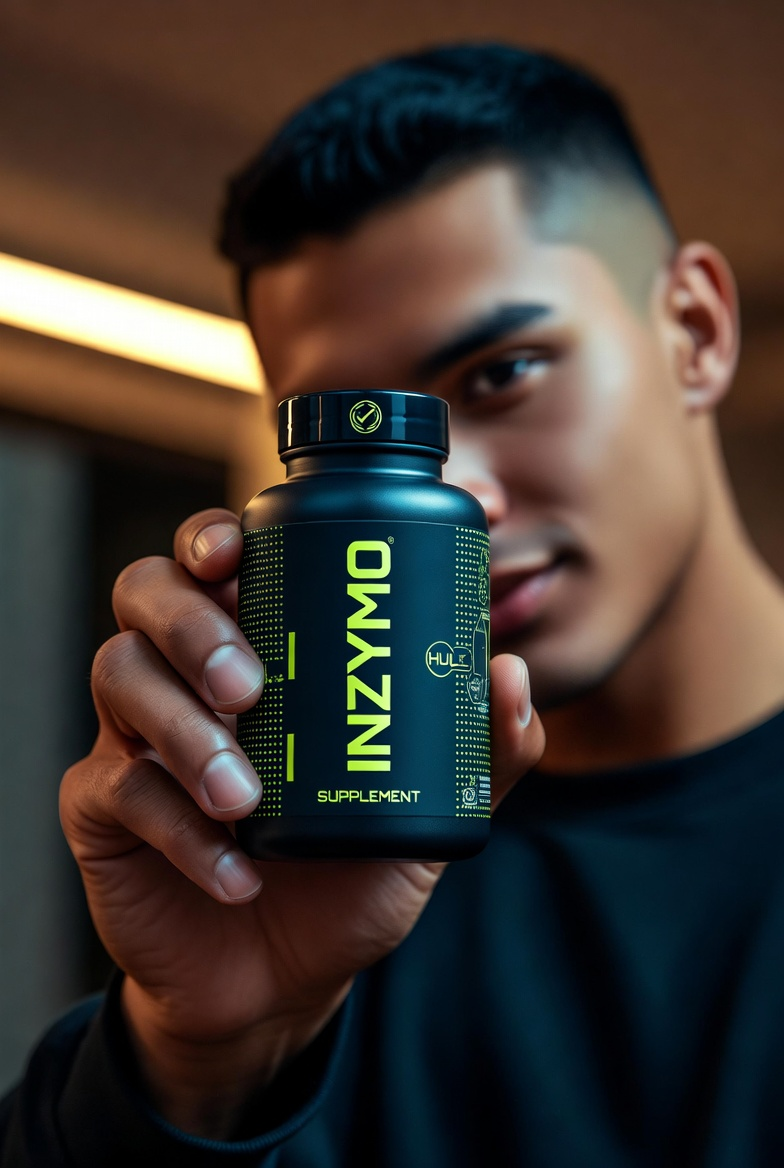
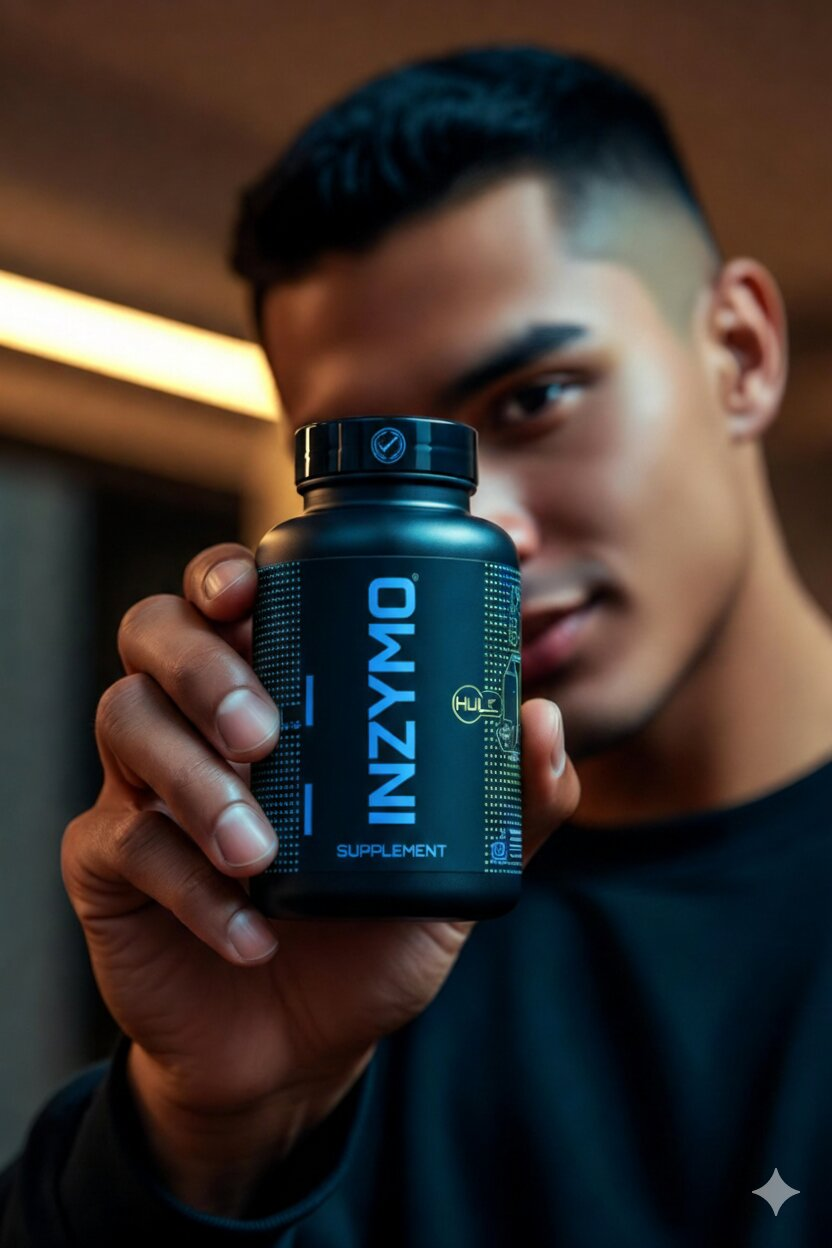
Changed UI and updated Edited Images

diff --git a/src/index.css b/src/index.css
@@ -15,7 +15,7 @@
     --popover: 0 0% 8%;
     --popover-foreground: 0 0% 92%;
 
-    --primary: 90 100% 50%;
+    --primary: 215 100% 50%;
     --primary-foreground: 0 0% 0%;
 
     --secondary: 0 0% 10%;
@@ -24,7 +24,7 @@
     --muted: 0 0% 12%;
     --muted-foreground: 0 0% 60%;
 
-    --accent: 90 100% 50%;
+    --accent: 215 100% 50%;
     --accent-foreground: 0 0% 0%;
 
     --destructive: 0 84.2% 60.2%;
@@ -32,15 +32,15 @@
 
     --border: 0 0% 15%;
     --input: 0 0% 15%;
-    --ring: 90 100% 50%;
+    --ring: 215 100% 50%;
 
     --radius: 0.5rem;
 
     --metal: 0 0% 20%;
     --metal-light: 0 0% 30%;
     --metal-dark: 0 0% 10%;
-    --neon-green: 90 100% 50%;
-    --neon-blue: 195 100% 50%;
+    --neon-green: 215 100% 50%;
+    --neon-blue: 215 100% 50%;
     --charcoal: 0 0% 10%;
     --graphite: 0 0% 20%;
 
@@ -74,7 +74,7 @@
   }
 
   ::selection {
-    background: hsl(0 85% 50% / 0.3);
+    background: hsl(195 100% 50% / 0.3);
     color: hsl(0 0% 100%);
   }
 
@@ -103,8 +103,8 @@
   .text-gradient-neon {
     @apply bg-clip-text text-transparent;
     background-image: linear-gradient(90deg,
-        hsl(0 85% 50%) 0%,
-        hsl(25 90% 55%) 100%);
+        hsl(195 100% 50%) 0%,
+        hsl(210 100% 60%) 100%);
   }
 
   .bg-metal-gradient {
@@ -128,18 +128,18 @@
   }
 
   .shadow-neon-blue {
-    box-shadow: 0 0 20px hsl(195 100% 50% / 0.3),
-      0 0 60px hsl(195 100% 50% / 0.1);
+    box-shadow: 0 0 20px hsl(210 100% 50% / 0.4),
+      0 0 60px hsl(210 100% 50% / 0.2);
   }
 
   .shadow-neon-cyan {
-    box-shadow: 0 0 20px hsl(180 100% 50% / 0.3),
-      0 0 60px hsl(180 100% 50% / 0.1);
+    box-shadow: 0 0 20px hsl(195 100% 50% / 0.4),
+      0 0 60px hsl(195 100% 50% / 0.2);
   }
 
   .glow-blue {
-    text-shadow: 0 0 20px hsl(195 100% 50% / 0.5),
-      0 0 40px hsl(195 100% 50% / 0.2);
+    text-shadow: 0 0 20px hsl(210 100% 50% / 0.6),
+      0 0 40px hsl(210 100% 50% / 0.3);
   }
 
   .animate-pulse-glow {
@@ -178,13 +178,13 @@
 
   0%,
   100% {
-    box-shadow: 0 0 15px hsl(0 85% 50% / 0.3),
-      0 0 30px hsl(0 85% 50% / 0.1);
+    box-shadow: 0 0 15px hsl(210 100% 50% / 0.4),
+      0 0 30px hsl(210 100% 50% / 0.2);
   }
 
   50% {
-    box-shadow: 0 0 25px hsl(0 85% 50% / 0.5),
-      0 0 50px hsl(0 85% 50% / 0.2);
+    box-shadow: 0 0 25px hsl(210 100% 50% / 0.6),
+      0 0 50px hsl(210 100% 50% / 0.3);
   }
 }
 

diff --git a/src/components/HeroSection.tsx b/src/components/HeroSection.tsx
@@ -18,7 +18,7 @@ export function HeroSection() {
           >
             ENERGY<br />
             <span className="text-gradient-metal">BOOSTER</span><br />
-            <span className="text-cyan-400">SUPPLEMENTS</span>
+            <span className="text-primary">SUPPLEMENTS</span>
           </h1>
           <p
             className="font-barlow text-lg md:text-xl text-muted-foreground max-w-2xl mx-auto lg:mx-0 mb-10 animate-fade-in-up"
@@ -33,7 +33,7 @@ export function HeroSection() {
             <Button variant="hero" size="xl">
               Shop Now
             </Button>
-            <Button variant="outline" size="xl" className="border-cyan-500 text-cyan-500 hover:bg-cyan-500/10">
+            <Button variant="outline" size="xl" className="border-primary text-primary hover:bg-primary/10">
               View Articles
             </Button>
           </div>
@@ -43,7 +43,7 @@ export function HeroSection() {
           <img
             src="/hero-spark.png"
             alt="Inzymo Spark"
-            className="w-full h-full object-contain drop-shadow-[0_0_80px_rgba(151,255,51,0.25)]"
+            className="w-full h-full object-contain drop-shadow-[0_0_80px_rgba(50,150,255,0.3)]"
           />
         </div>
       </div>

diff --git a/src/components/ScoopPowerSection.tsx b/src/components/ScoopPowerSection.tsx
@@ -13,7 +13,7 @@ export function ScoopPowerSection() {
         <section id="science" className="py-24 bg-black relative overflow-hidden">
             <div className="container px-4 text-center">
                 <div ref={ref} className={`${isVisible ? "animate-fade-in-up" : "opacity-0"}`}>
-                    <h2 className="font-bebas text-4xl md:text-6xl tracking-wider text-[#d4af37] mb-2 uppercase">
+                    <h2 className="font-bebas text-4xl md:text-6xl tracking-wider text-primary mb-2 uppercase">
                         Maximum Power
                     </h2>
                     <h3 className="font-bebas text-5xl md:text-7xl tracking-widest text-white mb-6 uppercase">

diff --git a/src/components/TrainersSection.tsx b/src/components/TrainersSection.tsx
@@ -118,7 +118,7 @@ export function TrainersSection() {
             {["All", "Performance", "Muscle", "Recovery", "Wellness"].map((cat) => (
               <button
                 key={cat}
-                className={`px-6 py-2 rounded-full border text-xs font-barlow font-medium transition-all ${activeCategory === cat || (cat === "All" && activeCategory === "Weight Loss")
+                className={`px-6 py-2 rounded-full border text-xs font-barlow font-medium transition-all ${activeCategory === cat
                   ? "bg-white text-black border-white"
                   : "border-border text-muted-foreground hover:border-primary/40"
                   }`}

diff --git a/src/components/CTASection.tsx b/src/components/CTASection.tsx
@@ -9,7 +9,7 @@ export function CTASection() {
       <div className="container px-4">
         <div ref={ref} className={`text-center mb-12 ${isVisible ? "animate-fade-in-up" : "opacity-0"}`}>
           <h2 className="font-bebas text-5xl tracking-wider text-foreground">
-            IN TOUCH <span className="text-cyan-400">GET</span>
+            IN TOUCH <span className="text-primary">GET</span>
           </h2>
           <p className="font-barlow text-muted-foreground mt-2">
             Leave your name and an expert representative from our team will get back to you with all the answers.

diff --git a/src/components/FeaturesSection.tsx b/src/components/FeaturesSection.tsx
@@ -70,7 +70,7 @@ export function FeaturesSection() {
               <img
                 src="/collagen-jar.png"
                 alt="Inzymo Protein Collagen"
-                className="w-full h-full object-contain scale-125 drop-shadow-[0_0_30px_rgba(151,255,51,0.2)]"
+                className="w-full h-full object-contain scale-125 drop-shadow-[0_0_30px_rgba(50,150,255,0.3)]"
               />
             </div>
           </div>
